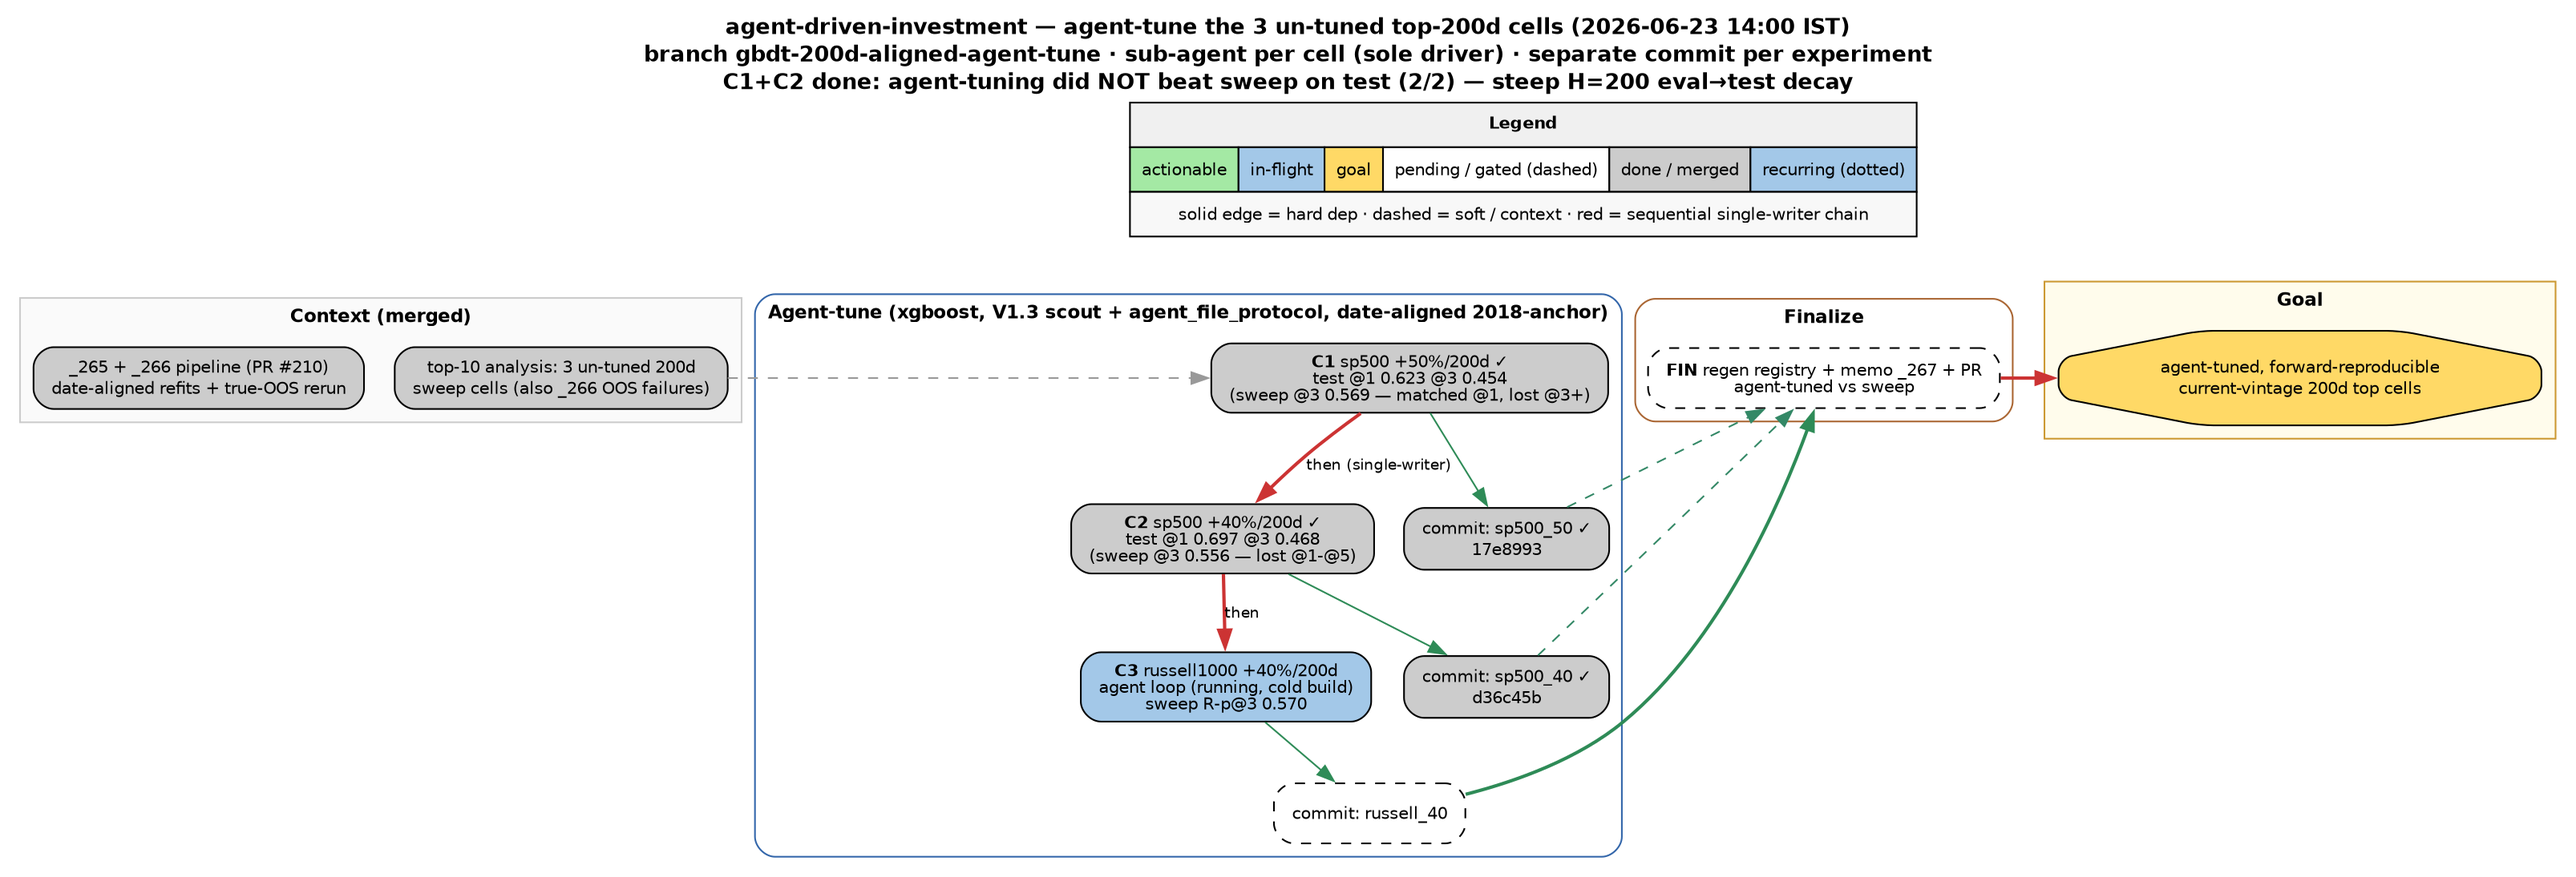
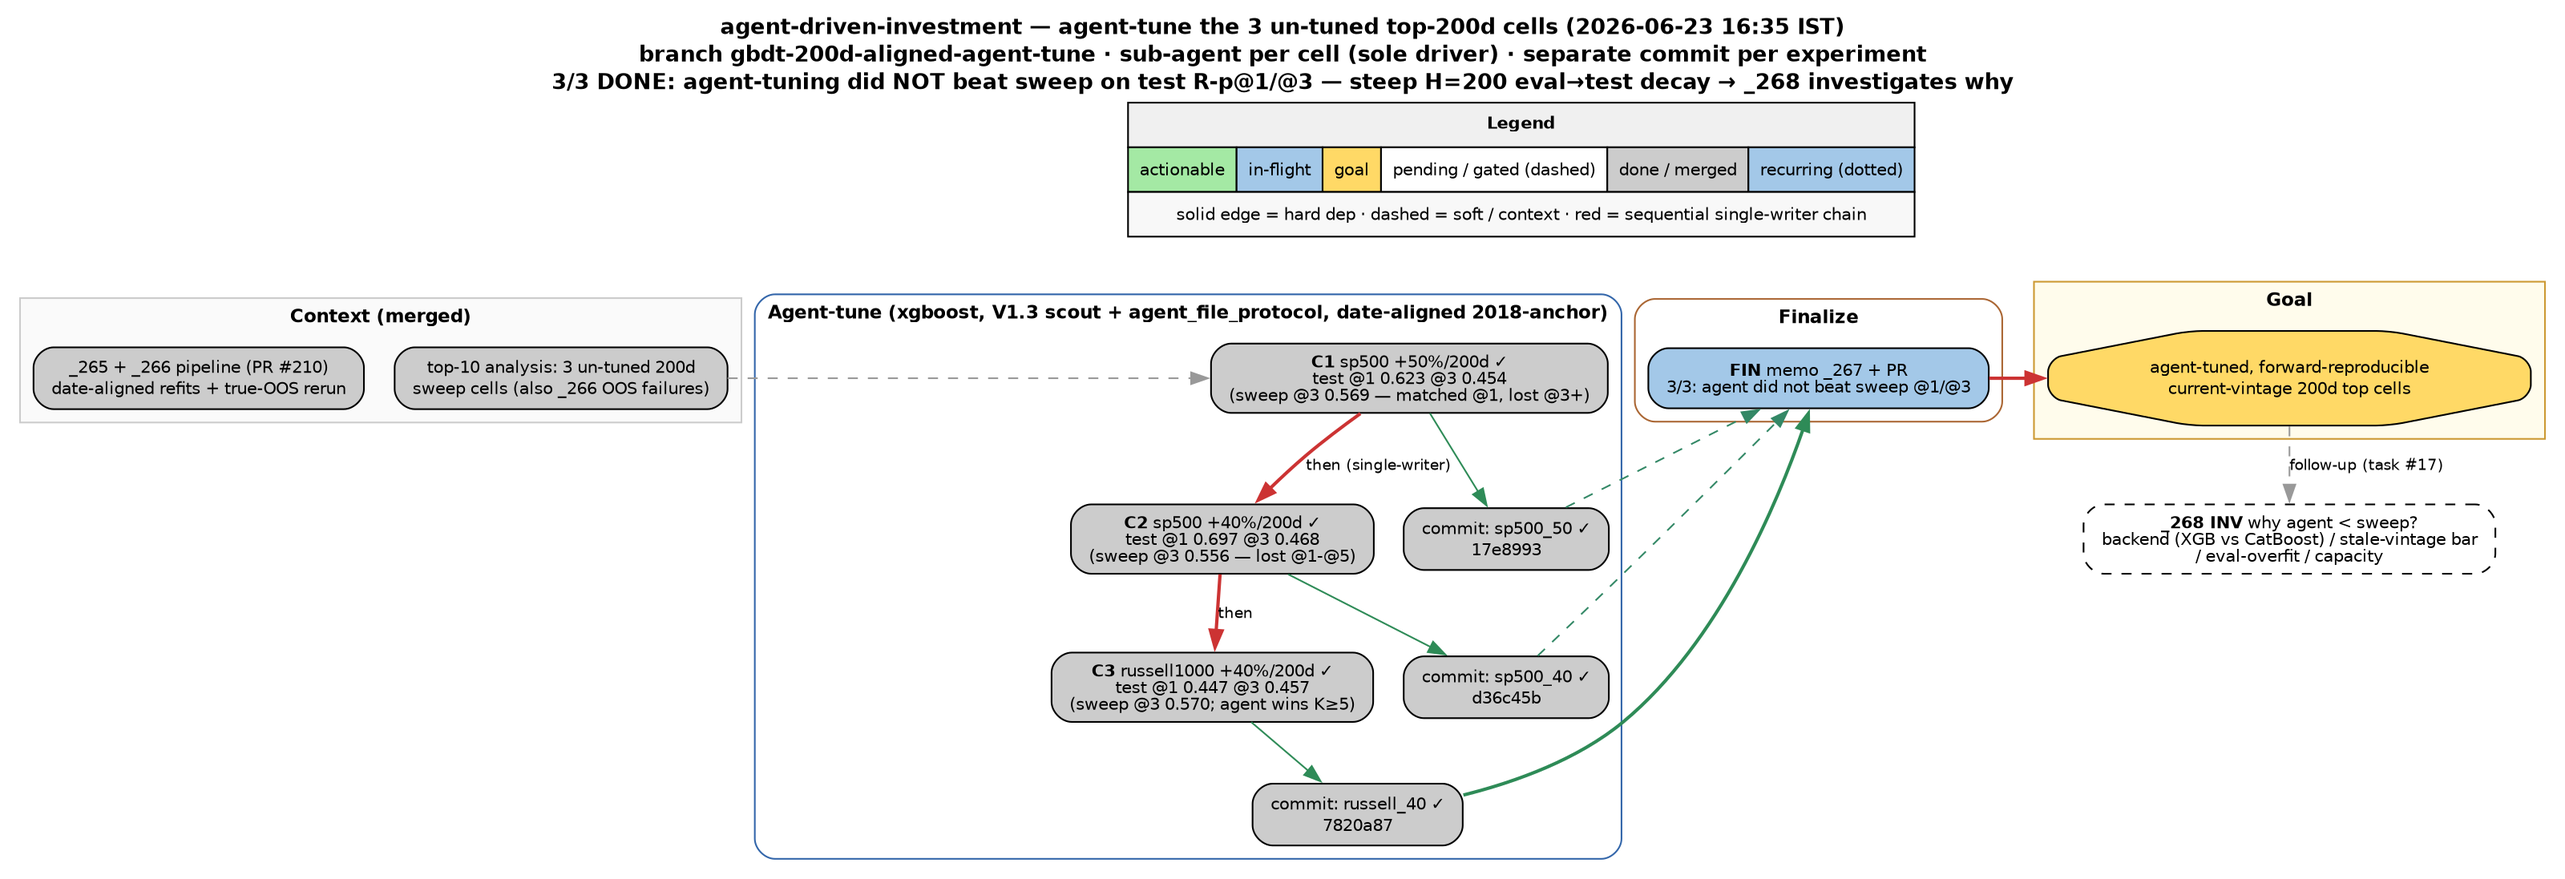
gbdt(_267): agent-tuned vs sweep on the 3 top-200d cells — memo + sidecar
3-cell honest comparison (agent-tuned xgboost current-vintage vs stale-vintage sweep CatBoost, test window 2023-07-27..2024-10-03): agent did NOT beat the sweep on test R-p@1/@3 on any cell (sweep wins/ties @1, wins @3 all 3); agent wins the deep tail K>=5 on russell1000 + @20 on sp500/40, with higher test AUC on russell. Dominant cause = steep H=200 eval->test decay (agent eval @1 ~0.79-0.90 -> test 0.45-0.70); models not overfit. Motivates _268 (backend XGB-vs-CatBoost / stale-vintage bar / eval-overfit / capacity). Graph: 3/3 done + _268 INV node.

diff --git a/docs/gbdt/_267_agent_tuned_200d_vs_sweep.md b/docs/gbdt/_267_agent_tuned_200d_vs_sweep.md
@@ -1,0 +1,89 @@
+# _267 — Agent-tuned date-aligned counterparts of the 3 un-tuned top-200d sweep cells
+
+**Headline:** The three H=200 cells that topped the R-Precision@3 registry on **sweep-grade
+CatBoost** (≤3 iters) but had **no agent-tuned counterpart** — `russell1000 +40%/200d`,
+`sp500 +50%/200d`, `sp500 +40%/200d` — were re-built as fully **agent-tuned**
+(`agent_file_protocol`, V1.3 Option B scout+combine, **XGBoost**) date-aligned models on the
+**current data vintage**. **Agent-tuning did NOT beat the sweep on the headline test metrics
+(R-Precision@1/@3) on any of the three**, despite much higher *eval* R-Precision (≈0.79–0.90 @1).
+The driver is a steep, sometimes K-dependent **H=200 eval→test decay**: the agent loop maximizes
+*eval* R-p@1, which is sharp on eval but does not survive to the held-out test window. The agent
+models are nonetheless the **trustworthy, current-vintage, reproducible** counterparts (the sweep
+cells failed `_266`'s forward-OOS self-check). Whether the gap is the **backend** (XGB vs CatBoost),
+the **stale-vintage sweep bar**, **eval-overfit**, or **capacity** is the subject of the queued
+`_268` investigation.
+
+## Setup
+
+- 3 specs `configs/gbdt/experiments/{russell1000_up_40pct_200d_dd20pct,sp500_up_50pct_200d_dd25pct,sp500_up_40pct_200d_dd20pct}_aligned_agent.yaml`:
+  **xgboost**, V1.3 Option B **scout** (35 single-knob fits) + **fs_prefit** cliff-cut (1%) +
+  **agent_file_protocol** (max 16 iters, `plateau_threshold 0.0001` per bug #204),
+  `conditional_isotonic`. Date-aligned H=200 block (anchor **2018-01-01**, `test_rows 300`,
+  test window **2023-07-27 → 2024-10-03**), `--snapshot-end 2026-06-20`.
+- Each cell was driven **solo by a dedicated data-scientist sub-agent** (one sub-agent = sole
+  driver per cell; concurrent drivers + a duplicate launch OOM'd the box once early on — the
+  single-driver + double-launch-guard discipline is in the run log).
+- **Comparison bar** = the sweep companion `*_aligned` (CatBoost, ≤3 iters) test R-p from the
+  registry. **Caveat (vintage confound):** those sweep numbers are **stale-vintage** — the cells
+  failed `_266`'s forward-OOS self-check (their training feature-matrix / data vintage no longer
+  reproduces), so the comparison is *current-vintage agent* vs *stale-vintage sweep*. Resolving
+  this is the first task of `_268`.
+
+## Results — agent (XGBoost, current vintage) vs sweep (CatBoost, stale vintage)
+
+Test window (identical per cell → base_rate identical within a cell). Raw R-Precision@K + base_rate:
+
+| cell | model | base | @1 | @3 | @5 | @10 | @20 | AUC |
+|---|---|---|---|---|---|---|---|---|
+| sp500 +50%/200d | sweep | 0.135 | 0.607 | 0.569 | 0.543 | 0.488 | 0.458 | — |
+| sp500 +50%/200d | **agent** | 0.135 | 0.623 | 0.454 | 0.467 | 0.449 | 0.445 | 0.72 |
+| sp500 +40%/200d | sweep | 0.219 | 0.727 | 0.556 | 0.521 | 0.450 | 0.451 | — |
+| sp500 +40%/200d | **agent** | 0.219 | 0.697 | 0.468 | 0.429 | 0.445 | 0.466 | 0.70 |
+| russell1000 +40%/200d | sweep | 0.236 | 0.717 | 0.570 | 0.507 | 0.465 | 0.432 | 0.66 |
+| russell1000 +40%/200d | **agent** | 0.236 | 0.447 | 0.457 | 0.534 | 0.537 | 0.511 | 0.68 |
+
+Agent eval R-Precision@K (the in-loop optimization target), for the decay comparison:
+
+| cell | base | @1 | @3 | @5 | @10 | @20 |
+|---|---|---|---|---|---|---|
+| sp500 +50%/200d | 0.107 | 0.895 | 0.743 | 0.690 | 0.572 | 0.462 |
+| sp500 +40%/200d | 0.176 | 0.895 | 0.728 | 0.628 | 0.543 | 0.486 |
+| russell1000 +40%/200d | 0.195 | 0.790 | 0.660 | 0.594 | 0.517 | 0.472 |
+
+Final agent HP (non-default knobs) / feature count: sp500/50 `eta0.2 d4 γ0.5 cs0.5` / 143;
+sp500/40 `d3 eta0.1 mcw5 α0.1 γ0.1` / 143; russell/40 `cs1.0 γ0.5` / 130. All converged
+on the V1.3 combine winner via `agent_should_stop` + the `v14_val_flat_eval_rp1` finalizer
+(selects by eval R-p@1 when val_brier is flat within the tie-band — NOT the val_brier argmin).
+
+## Reading
+
+- **Headline R-p@1/@3: the sweep wins or ties all three.** @1: sp500/50 agent +0.016 (a wash),
+  sp500/40 sweep +0.030, russell/40 sweep **+0.270**. @3: sweep wins all three (+0.115, +0.088,
+  +0.113).
+- **Deep tail (K≥5) is mixed-to-agent.** sp500/50 sweep still wins; sp500/40 ≈ tie with the agent
+  ahead at @20; **russell/40 the agent wins @5–@20** (+0.03 to +0.08) with higher test AUC.
+- **Eval→test decay is the dominant story.** Agent eval @1 ≈ 0.79–0.90 collapses to test @1
+  0.45–0.70. Test AUC decays far less than top-1 R-p (e.g. russell eval 0.704 → test 0.681, +
+  above the sweep's 0.662) — so the *discrimination* is real, but the *top-of-book ordering* is
+  regime-sensitive at this horizon. russell is the cleanest example: uniform decay would have kept
+  its eval shape, but instead the top-1 evaporates (0.79→0.45) while K≥5 actually *improves*.
+- The agent models are **not overfit** (negative train-val gap every iter; 130–143 low-complexity
+  features) — the eval→test gap is a *generalization/regime* effect, not a train-overfit one, and
+  more iterations would not close it (the loop already plateaued across ≥2–3 knob families per cell).
+
+## Verdict
+
+For these H=200 cells, agent-tuning XGBoost via the eval-R-p@1 loop produces a **clean, reproducible,
+current-vintage** model but **does not beat the (stale) sweep CatBoost on headline top-1/top-3 test
+R-Precision**; the eval→test decay dominates. The agent models are preferable for *deployment*
+(reproducible + current-vintage, where the sweep cells are not) and are competitive-to-better at
+deeper K (K≥5) on 2/3, but the headline metric does not improve. This reaffirms the cross-experiment
+**H=200 eval→test-decay prior** and motivates `_268`: decompose whether the shortfall is the
+**backend** (XGB vs CatBoost), the **stale-vintage bar**, **eval-overfit**, or the **horizon** itself.
+
+## Artifacts
+
+- 3 agent cells committed: `17e8993` (sp500/50), `d36c45b` (sp500/40), `7820a87` (russell/40);
+  registry rows in `results/gbdt/data/r_precision_at_k.csv`.
+- Sidecar: `results/gbdt/data/_267_agent_vs_sweep_200d_data.json`.
+- Follow-up: `_268` (why agent < sweep — backend / vintage / eval-overfit / capacity decomposition).
